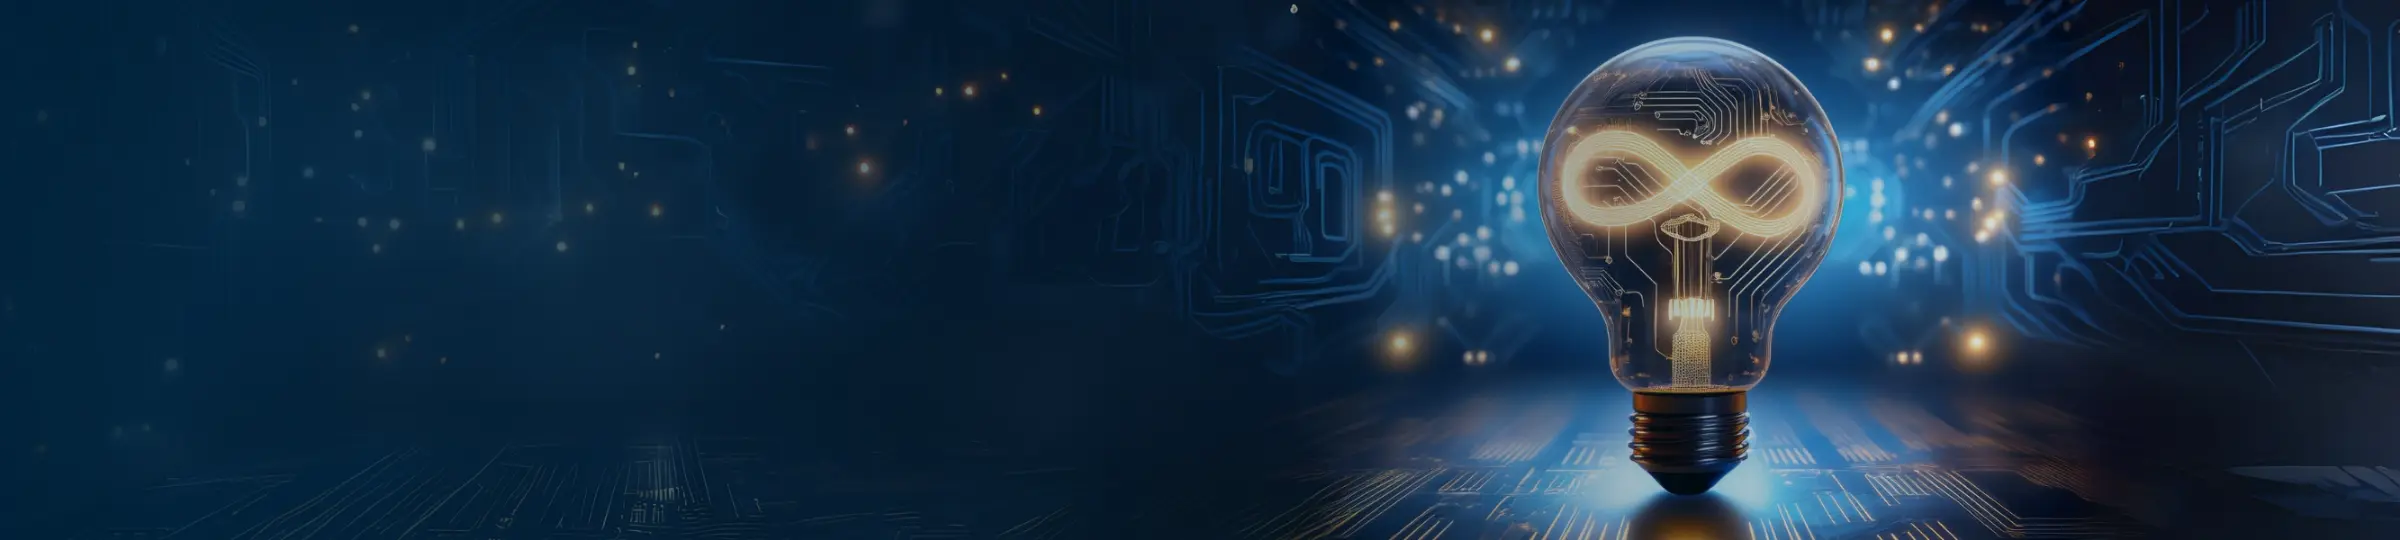
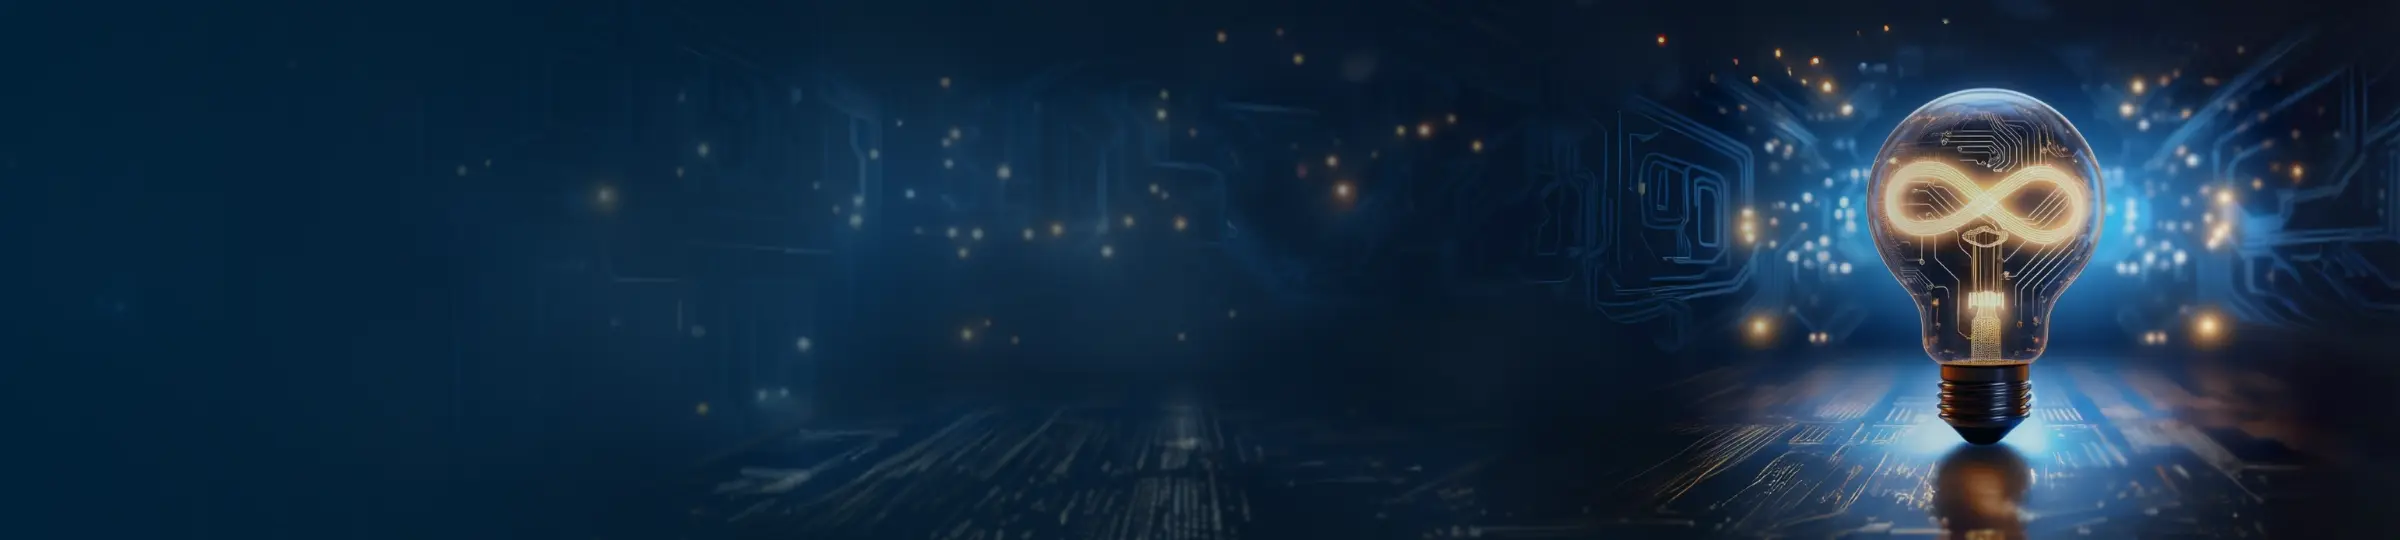
added tokens and new hero to blog
expanded blog css to include different hero image sizes

diff --git a/src/scss/global.scss b/src/scss/global.scss
@@ -336,6 +336,46 @@ a {
   }
 }
 
+/* ---- Blog-specific hero tweaks (modifier) ---- */
+.hero--blog {
+  /* shorter, “band-like” hero */
+  min-height: clamp(260px, 38vh, 420px);
+  padding-top: clamp(1rem, 2vw, 2rem);
+  padding-bottom: clamp(1.25rem, 3vw, 2.75rem);
+}
+
+
+/* Headline + copy width/spacing to match your other pages */
+.hero--blog .hero-content {
+  max-width: 640px;
+  padding-top: 0.5rem;
+}
+
+/* small refinements for title + tagline */
+.hero--blog .hero-content h1 { margin-bottom: .35rem; }
+.hero-tagline {
+  font-size: clamp(1rem, 2vw, 1.25rem);
+  color: var(--on-dark-dim);
+  margin: 0;
+}
+
+
+/* Keep the bulb in frame on the right across sizes */
+.hero--blog .hero-media {
+  object-position: right center;
+}
+
+/* Slightly lighter tint for readability over the bulb */
+.hero--blog .hero-overlay {
+  background: linear-gradient(
+    to right,
+    rgba(0, 45, 85, 0.65) 0%,
+    rgba(0, 45, 85, 0.40) 45%,
+    rgba(0, 45, 85, 0.20) 100%
+  );
+}
+
+
 
 
 /*=============================================================
@@ -824,6 +864,24 @@ a {
     padding: 1rem 2rem;
     font-size: 1.1rem;
   }
+}
+
+/*  Blog chips  */
+/* spacing between hero and chips */
+.chips-bar { padding-top: 1.25rem; }
+
+/* keep chips in one row at desktop; wrap on smaller screens */
+.button-row { display: flex; gap: .75rem 1rem; flex-wrap: wrap; }
+.button { white-space: nowrap; }
+
+@media (min-width: 1100px) {
+  .button-row { flex-wrap: nowrap; }
+}
+
+.blog-filters {
+  max-width: 1100px;
+  margin: 1.25rem auto 0;
+  padding: 0 1rem;
 }
 
 /* =======================
